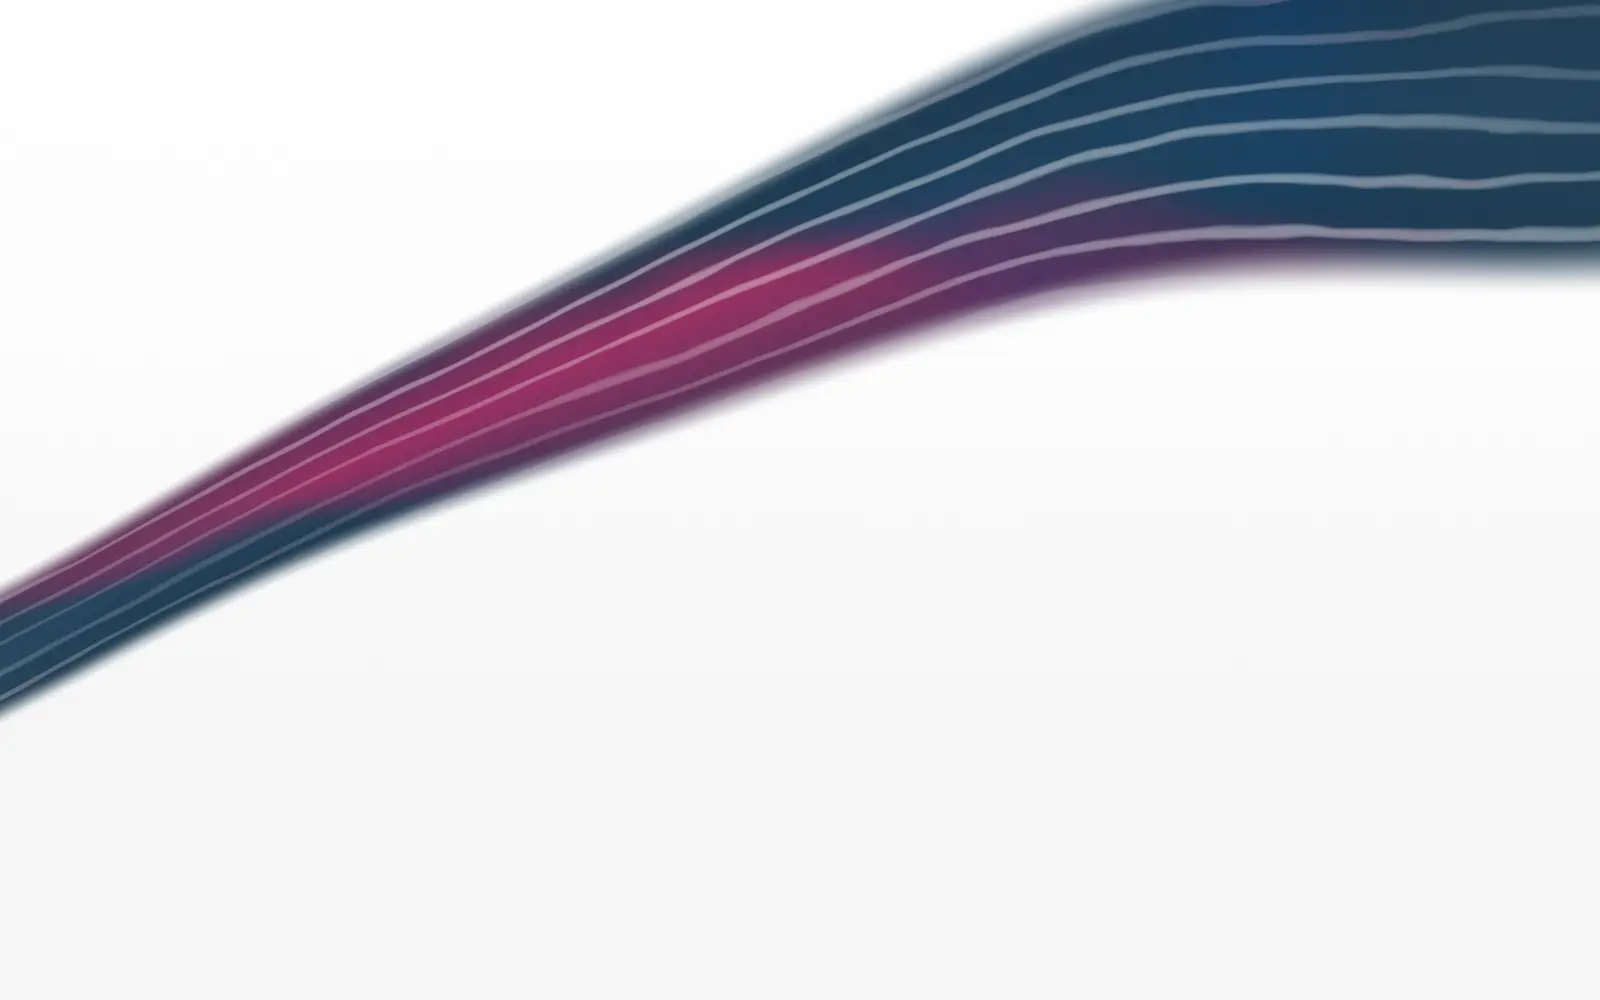
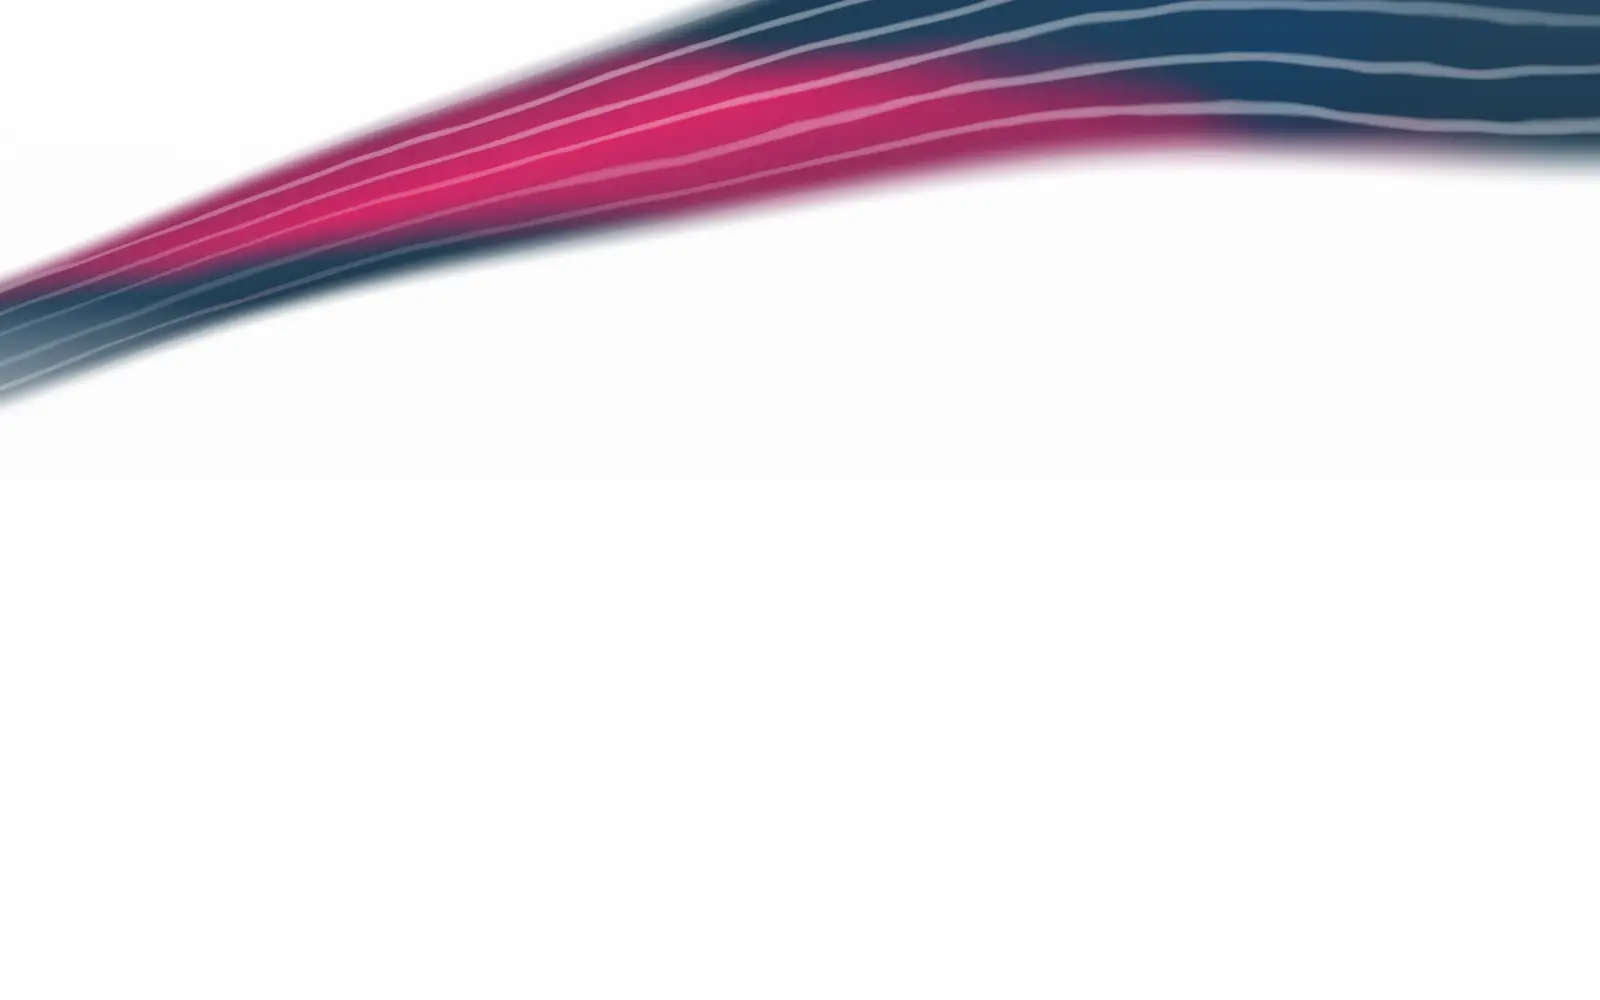
Homepage: keep the ribbon off the copy, fix the field, true brand pink
THE FIELD

The floating label broke the field the moment it gained focus or a value:
the label rose to the top-left, the text dropped beneath it, and the lock
icon — centred by the flex row — was left stranded between the two, aligned
with neither. A floating label does not work inside a pill with a leading
icon. It is now a static placeholder with an off-screen label for assistive
technology, so nothing moves between states.

THE LAYOUT

The page is two zones: the ribbon owns the top 40svh, the copy is centred in
what remains. A mask-image dissolves the ribbon into the off-white before
the copy zone begins, so it cannot pass over the text or the field at any
size — and the white veil that used to be dosed against it is gone with it.
The ribbon's path moved up into that band, with its depth layers stacked
above the main one and bleeding off the top.

Measured contrast of the copy over the background is now a flat 11.44:1 at
every width from 390px to 1440px — the value of Rich Blue on the plain
off-white, which is the proof the ribbon touches nothing.

One artifact this surfaced: the boot-time CSS gradient shared the mask with
the canvas, and bled through the canvas's fade as a grey smear below the
ribbon. It now leaves as soon as the first WebGL frame draws, and the canvas
fades in over plain off-white instead.

THE PINK

The pink streak is mixed to ~94% of the token at its core instead of ~62%,
so it reads as the same #E0185E as the CTAs on the AP page rather than a
[…]

diff --git a/src/components/home/RibbonBackground.tsx b/src/components/home/RibbonBackground.tsx
@@ -80,10 +80,10 @@ float fbm(vec2 p) {
 // Centreline: rises to the right, with two inflections so it never reads as
 // a plain wave.
 float pathY(float x, float phase, float t) {
-  float base = mix(0.32, 0.92, smoothstep(-0.10, 1.05, x));
-  base += 0.095 * sin(x * 2.5  + t * 0.085 + phase);
-  base += 0.040 * sin(x * 5.7  - t * 0.115 + phase * 1.7);
-  base += 0.015 * sin(x * 10.5 + t * 0.061 + phase * 2.3);
+  float base = mix(0.64, 1.02, smoothstep(-0.10, 1.05, x));
+  base += 0.075 * sin(x * 2.5  + t * 0.085 + phase);
+  base += 0.030 * sin(x * 5.7  - t * 0.115 + phase * 1.7);
+  base += 0.012 * sin(x * 10.5 + t * 0.061 + phase * 2.3);
   return base;
 }
 
@@ -112,8 +112,8 @@ vec4 ribbon(vec2 uv, float phase, float widthK, float t, float seed) {
 
   // Pink energy travelling along the ribbon: a streak crossing it, never a
   // mass sitting on it.
-  float energy = smoothstep(0.28, 0.98, sin(uv.x * 3.4 - t * 0.18 + across * 1.2 + n * 2.2));
-  col = mix(col, uPink, 0.62 * energy * (0.42 + 0.58 * (1.0 - aa)));
+  float energy = smoothstep(0.34, 0.96, sin(uv.x * 3.4 - t * 0.18 + across * 1.2 + n * 2.2));
+  col = mix(col, uPink, 0.94 * energy * (0.55 + 0.45 * (1.0 - aa)));
 
   // Directional lines following the curve. Frequency and brightness are
   // noise-modulated so they never fall into a visible repeat.
@@ -139,18 +139,18 @@ void main() {
 
   // Mobile is framed on its own terms, not scaled down: the ribbon sits
   // higher and flatter so it stays clear of the copy.
-  if (uMobile > 0.5) uv.y = (uv.y - 0.74) * 1.15 + 0.62;
+  if (uMobile > 0.5) uv.y = (uv.y - 0.80) * 1.20 + 0.78;
 
   vec4 l1 = ribbon(uv, 0.0, 1.00, t, 0.0);
   col = mix(col, l1.rgb, l1.a);
 
   if (uLayers > 1.5) {
-    vec4 l2 = ribbon(uv + vec2(0.0, 0.055), 1.35, 0.68, t, 3.1);
+    vec4 l2 = ribbon(uv - vec2(0.0, 0.050), 1.35, 0.68, t, 3.1);
     col = mix(col, l2.rgb, l2.a * 0.72);
   }
 
   if (uLayers > 2.5) {
-    vec4 l3 = ribbon(uv - vec2(0.0, 0.072), 2.60, 0.42, t, 6.7);
+    vec4 l3 = ribbon(uv - vec2(0.0, 0.105), 2.60, 0.42, t, 6.7);
     col = mix(col, l3.rgb, l3.a * 0.55);
   }
 
@@ -205,6 +205,9 @@ function compile(gl: WebGLRenderingContext, type: number, src: string): WebGLSha
 export default function RibbonBackground() {
   const canvasRef = useRef<HTMLCanvasElement>(null);
   const [failed, setFailed] = useState(false);
+  // Flipped after the first frame draws: the boot-time gradient leaves and
+  // the canvas fades in over plain off-white.
+  const [ready, setReady] = useState(false);
 
   useEffect(() => {
     const canvas = canvasRef.current;
@@ -308,9 +311,11 @@ export default function RibbonBackground() {
       // composition, no loop, no repaint.
       clock = 12;
       draw();
+      setReady(true);
     } else {
       const minFrame = lowPower ? 1000 / 30 : 0;
       let lastFrame = 0;
+      let drawn = false;
 
       const loop = (now: number) => {
         raf = requestAnimationFrame(loop);
@@ -326,6 +331,10 @@ export default function RibbonBackground() {
         if (prev) clock += Math.min((now - prev) / 1000, 0.1);
         prev = now;
         draw();
+        if (!drawn) {
+          drawn = true;
+          setReady(true);
+        }
       };
       raf = requestAnimationFrame(loop);
     }
@@ -369,10 +378,10 @@ export default function RibbonBackground() {
   }, []);
 
   return (
-    <div class="hp-bg" aria-hidden="true">
-      {/* Painted immediately, under the canvas: no flash before WebGL is
-          ready, and the whole background if it never is. */}
-      <div class="hp-bg__static" />
+    <div class="hp-bg" aria-hidden="true" data-ready={ready || failed ? '' : undefined}>
+      {/* Painted before the canvas has a frame, and only then: it shares the
+          mask with what sits above it, and shows through the fade. */}
+      {!ready && !failed && <div class="hp-bg__static" />}
       {/* Only fetched when there is no WebGL to fetch it for: a real frame of
           the ribbon beats the gradient approximation underneath. */}
       {failed && (
@@ -387,7 +396,6 @@ export default function RibbonBackground() {
       )}
       {!failed && <canvas ref={canvasRef} class="hp-bg__canvas" />}
       <div class="hp-bg__dots" />
-      <div class="hp-bg__veil" />
     </div>
   );
 }

diff --git a/README.md b/README.md
@@ -95,15 +95,20 @@ Performance et accessibilité :
 - Cadrage propre au mobile — le ruban remonte au-dessus de la zone de texte
   plutôt que d'être une réduction du desktop.
 
-**La zone de respiration** derrière la phrase et le champ est un voile blanc
-à rayons fixes (700 × 290 px), pas en pourcentages : le bloc de texte a une
-largeur fixe, donc une ellipse relative au viewport se rétracte justement sur
-les écrans étroits où le ruban en est le plus proche. Contraste mesuré du
-texte sur le fond animé : de 10:1 à 11,3:1 entre 390 px et 1440 px.
+**Le ruban ne passe jamais sur le texte.** La page est une grille à deux
+zones : le ruban occupe la bande supérieure (40 svh) et se dissout dans le
+blanc-gris par un `mask-image` avant que la zone de contenu ne commence ;
+la phrase et le champ sont centrés dans la zone du dessous. Il n'y a donc
+plus de voile blanc à doser — contraste mesuré du texte sur le fond :
+11,4:1 à toutes les largeurs, soit celui du Rich Blue sur le blanc-gris nu.
+Le dégradé CSS d'amorçage disparaît dès la première image WebGL (le canvas
+arrive en fondu) : partageant le masque avec le canvas, il transparaissait
+dans la zone de fondu comme une tache grise.
 
-**Le champ de passphrase** (`PasswordGate.astro`) est une pilule givrée sur le
-ruban, avec label flottant en CSS pur (`:placeholder-shown`, aucun script) et
-bouton circulaire. La vérification est **uniquement côté client** : ce n'est
+**Le champ de passphrase** (`PasswordGate.astro`) est une pilule givrée avec
+icône, placeholder statique, label hors écran pour les lecteurs d'écran, et
+bouton circulaire. Pas de label flottant : dans une pilule avec icône en tête,
+il laissait l'icône échouée entre le label remonté et le texte saisi. La vérification est **uniquement côté client** : ce n'est
 pas un mécanisme de sécurité, juste un aiguillage. La valeur attendue est
 `lazarus` (insensible à la casse et aux espaces) et redirige vers
 `/ap-automation-software/`. **En cas d'erreur, rien ne s'affiche** : pas de
